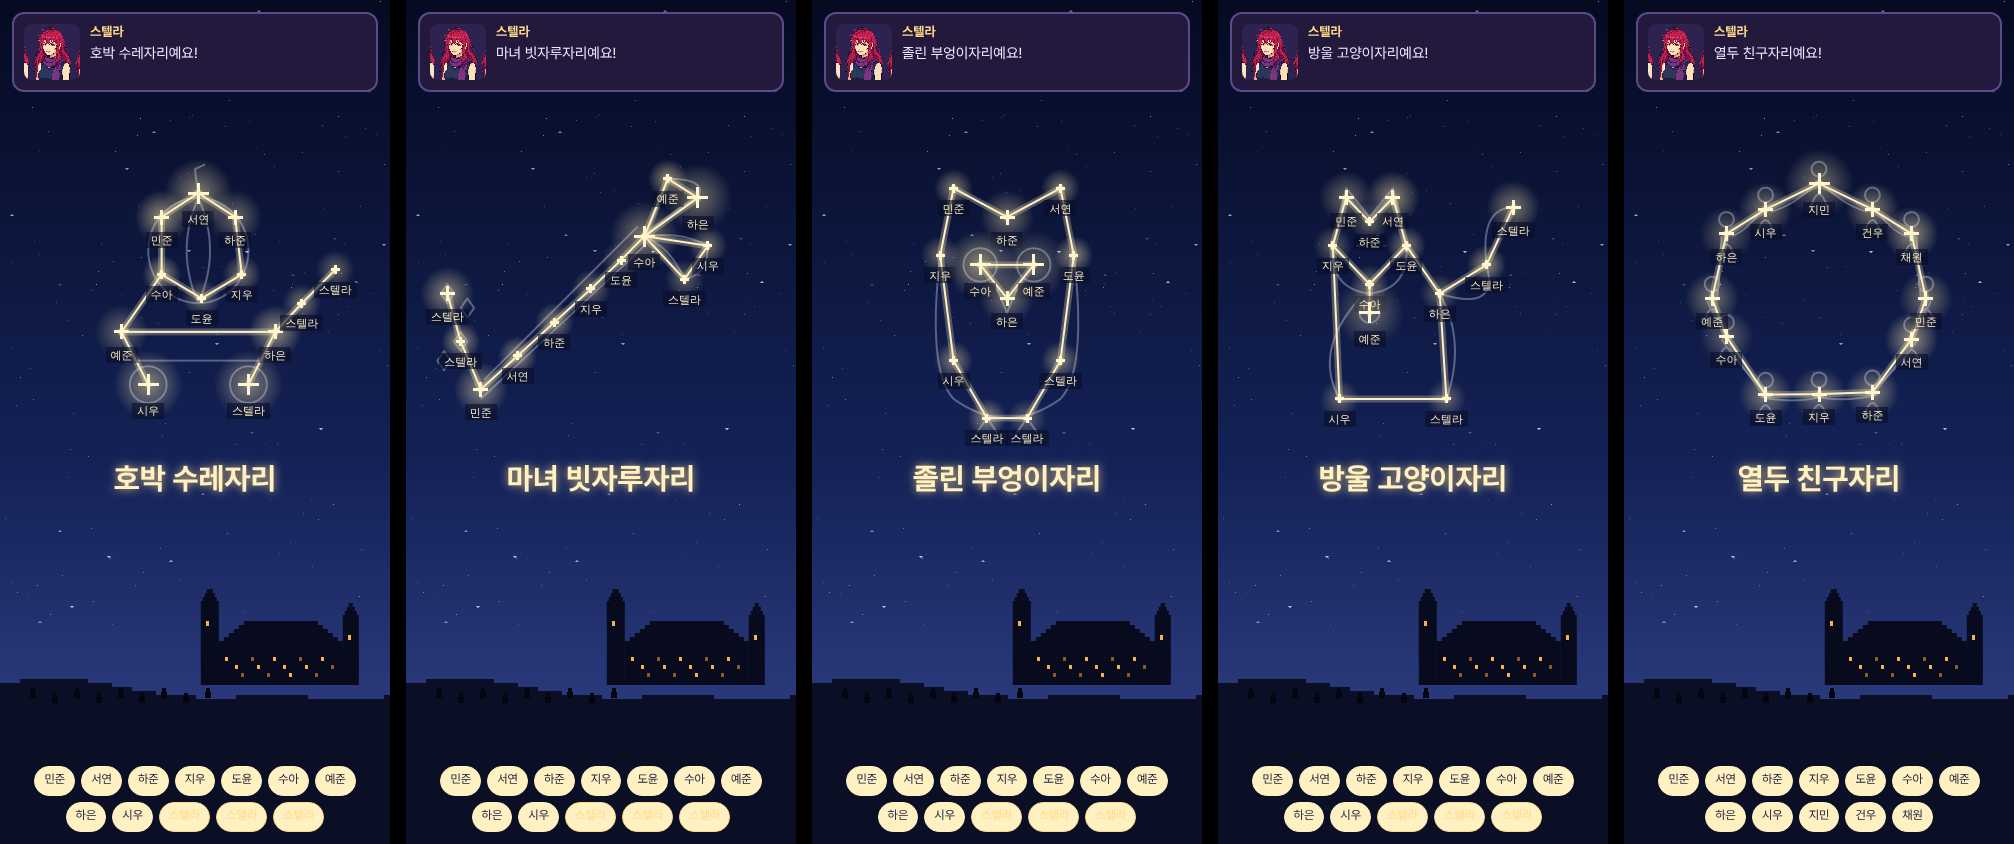
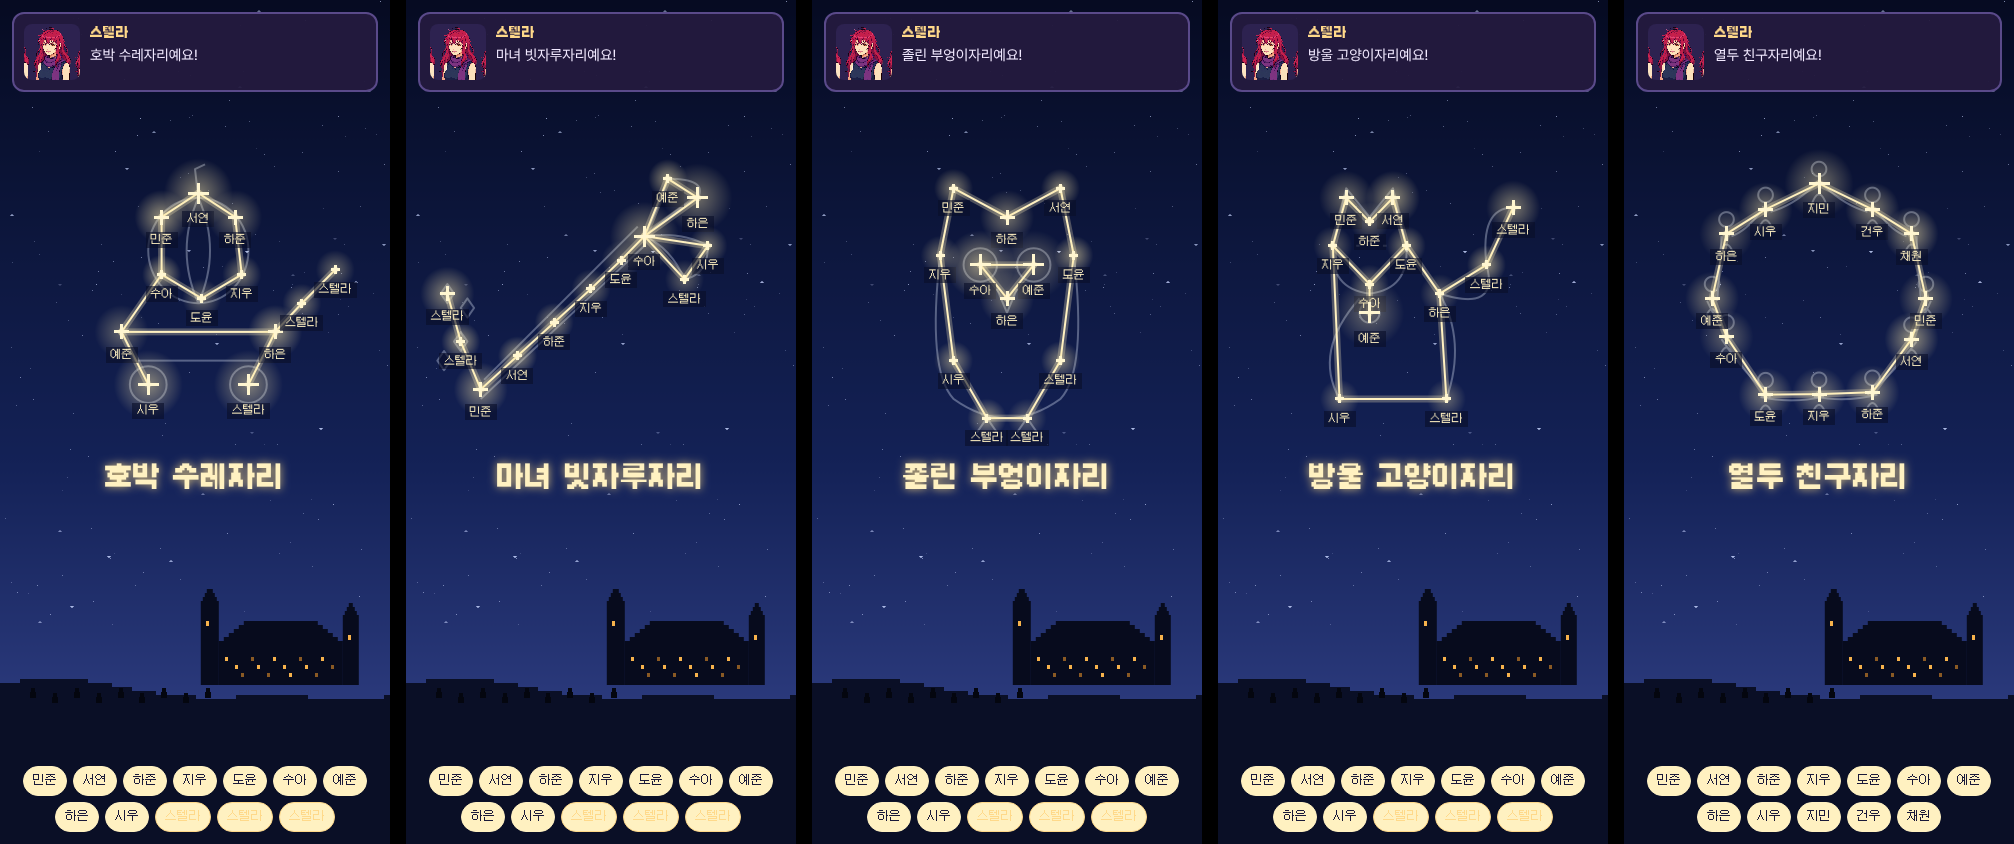
입문 선배 이름 코니, 접속하면 먼저 말 걸기, 탐사 화면을 열면 완료 / 별 보는 밤 시안 글꼴을 게임 글꼴(갈무리)로
Claude-Session: https://claude.ai/code/session_01HhJ2NoNCjk5kaA3GWL7UDs

diff --git a/public/index.html b/public/index.html
@@ -1263,7 +1263,7 @@ function enterWorld(){
   document.body.classList.add('inworld'); app.innerHTML = ''; sheetOn = false; app.classList.remove('open');
   if (typeof applySettings === 'function') applySettings();
   if (typeof bagBadge === 'function') setTimeout(bagBadge, 500);
-  World.setPlayer(me.nick, avOf(me)); const last = posLoad(); World.start(last ? last.m : undefined, last ? [last.x, last.y] : undefined); World.resize(); posWatch();
+  World.setPlayer(me.nick, avOf(me)); const last = posLoad(); World.start(last ? last.m : undefined, last ? [last.x, last.y] : undefined); World.resize(); tutGreet(); posWatch();
   syncPens(); syncRoom(); syncHalls(); syncHallNames(); syncSpots(); syncNpcs(); NL.ready.then(() => { npcDecay(); npcSig = ''; syncNpcs(); MQ.ready.then(() => { mqSky(); npcSig = ''; syncNpcs(); mqMarks(); setTimeout(mqTick, 1200); }); }); dayTick(); hud(); showRest(); setTimeout(storyCheck, 1500);
 }
 let spotTimer = 0;
@@ -1843,7 +1843,6 @@ function xEnd(how){   // how: clear · time · retreat · wipe
   const before = xLv(ex.exp).L; ex.exp += exp; me.coin += gold; Object.entries(items).forEach(([k, n]) => { me.inv[k] = (me.inv[k] || 0) + n; });
   const after = xLv(ex.exp).L, sp = how === 'clear' || (how !== 'wipe' && Math.random() < .1) ? 1 : 0; ex.spx = (ex.spx || 0) + sp; ex.run = null; xb = null; clearInterval(xTick); save(); hud();
   xv = { view: 'result', how, gold, exp, items, up: after > before ? [before, after] : null, sp, prog: Math.floor(run.prog) };
-  tutHook('explore');
   if (how !== 'wipe'){ pzDrop('explore'); lnDrop('explore'); }
   if (how !== 'wipe' && Math.random() < .02) setTimeout(() => recipePaper('explore'), 700);   // 탐사 보상: 레시피 종이 2%
 }
@@ -1900,6 +1899,7 @@ function xpWire(){
     else if (a === 'start' && xpV && xpV.host === myId()) GDB.upd('xparty/' + xpRoom, { st: 'run', t0: now2() + 3000, seed: Math.floor(Math.random() * 1e9) }); });
 }
 function renderExplore(){
+  tutHook('explore');
   const ex = xEx(), lv = xLv(ex.exp), job = ex.job && XJ[ex.job];
   if (ex.run && xTime(ex.run) <= 0 && !xb) xEnd('time');
   if (!xv) xv = { view: ex.run ? 'march' : 'lobby' };
@@ -6947,8 +6947,8 @@ document.addEventListener('click', e => { const bt = e.target.closest && e.targe
 // ===== 입문 퀘스트: 학교 선배가 수업 · 온실 · 낚시 · 사육장 · 탐사를 한 번씩 해 보게 이끌어요 (새로 만든 계정만, 순서 고정, 건너뛰기 없음) =====
 //   me.tut = { s: 지금 단계(0~4), g: 과제를 받았는지, ok: 과제를 끝냈는지, end: 모두 끝남 } · 옛 계정은 me.tut이 없어서 선배가 나오지 않아요
 const TUT = {
-  name: '하랑 선배', title: '학교 선배', look: 21, map: 'campus', x: 47, y: 47,
-  intro: ['어, 새로 왔구나. 나는 하랑이야. 이 학교 3학년이고, 신입생 길 안내를 맡고 있어.', '여기서 할 수 있는 건 많은데.... 한꺼번에 말하면 헷갈리니까 하나씩 해 보자.', '다 하고 나면 용돈도 줄게. 걱정 말고 따라와.'],
+  name: '코니 선배', title: '학교 선배', look: 21, map: 'campus', x: 47, y: 47,
+  intro: ['어, 새로 왔구나. 나는 코니야. 이 학교 3학년이고, 신입생 길 안내를 맡고 있어.', '여기서 할 수 있는 건 많은데.... 한꺼번에 말하면 헷갈리니까 하나씩 해 보자.', '다 하고 나면 용돈도 줄게. 걱정 말고 따라와.'],
   steps: [
     { k: 'class', ask: ['먼저 수업부터 들어 보자.', '본관 옆 「교실」에 들어가서 「앉아서 수업 듣기」를 눌러 봐. 과목은 아무거나 괜찮아.', '한 판만 끝까지 해 보면 돼.'],
       again: '교실에서 수업을 한 판 끝까지 해 봐. 과목은 아무거나 괜찮아.', done: ['오, 해냈네! 수업은 하루에 열 번까지 들을 수 있어.', '들을수록 지식이 쌓이고, 새 레시피도 알게 돼. 이건 용돈이야.'], rew: { coin: 50 } },
@@ -6958,8 +6958,8 @@ const TUT = {
       again: '물가에서 낚시를 해 봐. 학교 북쪽 연못이 가까워. 한 마리만 낚으면 돼.', done: ['한 마리 낚았네! 잡은 물고기는 도감에 기록돼.', '생선 가게에 팔 수도 있고, 요리 재료로도 쓰여. 이것도 받아.'], rew: { coin: 50 } },
     { k: 'feed', ask: ['사육장에도 가 보자. 네 생물들이 기다리고 있어.', '「사육장」에 들어가서 「내 사육장」을 열고, 생물에게 먹이를 줘 봐.', '애정이 쌓이면 귀한 재료를 나눠 줘.'],
       again: '사육장에서 내 생물에게 먹이를 줘 봐. 한 마리면 충분해.', done: ['귀여워하는 거 봤지? 애정이 쌓이면 재료도 나눠 줘.', '마지막은 탐사야. 입장료가 50G 드니까 미리 줄게.'], rew: { coin: 50 } },
-    { k: 'explore', ask: ['마지막은 탐사야. 학교에서 제일 짜릿한 일이지.', '마을 가장자리 길 끝에 기둥 문이 있어. 거기서 「달빛 숲길」로 들어가 봐.', '몬스터와 싸우니까 조금 무섭지? 도중에 돌아와도 괜찮아. 한 번 다녀오기만 하면 돼.'],
-      again: '마을 가장자리 길 끝 기둥 문에서 탐사를 한 번 다녀와 봐. 도중에 돌아와도 괜찮아.', done: ['탐사까지 다녀왔네.... 이제 이 학교에서 할 건 거의 다 해 본 거야.', '이건 내 마지막 선물이야. 앞으로는 스스로 해 나가면 돼.', '그럼 잘 지내.......'], rew: { coin: 300 } },
+    { k: 'explore', ask: ['마지막은 탐사야. 학교에서 제일 짜릿한 일이지.', '마을 가장자리 길 끝에 기둥 문이 있어. 거기로 들어가서 탐사 화면을 열어 봐.', '싸우지 않아도 괜찮아. 들어가 보기만 하면 돼.'],
+      again: '마을 가장자리 길 끝 기둥 문으로 들어가 봐. 탐사 화면만 열어 봐도 돼.', done: ['탐사 문까지 와 봤네.... 이제 이 학교에서 할 건 거의 다 해 본 거야.', '이건 내 마지막 선물이야. 앞으로는 스스로 해 나가면 돼.', '그럼 잘 지내.......'], rew: { coin: 300 } },
   ],
 };
 const tutOn = () => !!(me && me.tut && !me.tut.end);
@@ -6969,9 +6969,11 @@ function tutNpcs(){
   const T = me.tut, mark = !T.g || T.ok ? '❗' : '';
   return [{ id: 'tut:senior', name: TUT.name, map: TUT.map, x: TUT.x, y: TUT.y, r: 1, mark, wander: true, dir: 'down', av: tutAv() }];
 }
+var tutAuto = false;
+function tutGreet(){ if (tutAuto || !tutOn() || !me || !(!me.tut.g || me.tut.ok)) return; tutAuto = true; setTimeout(() => { if (tutOn() && !sheetOn && !evOn) tutTalk(); }, 1800); }
 function tutHook(k){
   if (!tutOn()) return; const T = me.tut; if (!T.g || T.ok || TUT.steps[T.s].k !== k) return;
-  T.ok = 1; save(); syncNpcs(); setTimeout(() => toast('입문 과제 완료! 하랑 선배에게 가 보세요'), 600);
+  T.ok = 1; save(); syncNpcs(); setTimeout(() => toast('입문 과제 완료! 코니 선배에게 가 보세요'), 600);
 }
 let tutCtx = null;
 function tutPanel(lines, i){

diff --git a/tools/stargaze/preview.html b/tools/stargaze/preview.html
@@ -2,16 +2,18 @@
 <style>
 @font-face{font-family:'Pretendard';font-weight:400;src:url(../../public/fonts/Pretendard-Regular.woff2) format('woff2')}
 @font-face{font-family:'Pretendard';font-weight:700;src:url(../../public/fonts/Pretendard-Bold.woff2) format('woff2')}
+@font-face{font-family:'G11';src:url(../../public/fonts/Galmuri11.sub.woff2) format('woff2')}
+@font-face{font-family:'G11B';src:url(../../public/fonts/Galmuri11-Bold.sub.woff2) format('woff2')}
 html,body{margin:0;background:#000;overflow:hidden;font-family:Pretendard,sans-serif}
 #stage{position:relative;overflow:hidden}
 canvas{position:absolute;inset:0;width:100%;height:100%}
 #say{position:absolute;left:12px;right:12px;top:12px;display:flex;gap:10px;padding:10px;background:rgba(36,27,63,.94);border:2px solid #5A4A8A;border-radius:12px;color:#F1E9FF;box-sizing:border-box}
 #say img{width:56px;height:56px;border-radius:8px;background:#2D2250;object-fit:cover;flex:none;image-rendering:pixelated}
-#say b{display:block;font-size:13px;color:#FFD98A;margin-bottom:3px}
+#say b{font-family:G11B,Pretendard,sans-serif;display:block;font-size:13px;color:#FFD98A;margin-bottom:3px}
 #say p{margin:0;font-size:14.5px;line-height:1.45}
-#cnt{position:absolute;left:0;right:0;top:94px;text-align:center;font-size:13px;color:#BFD0FF}
+#cnt{font-family:G11,Pretendard,sans-serif;position:absolute;left:0;right:0;top:94px;text-align:center;font-size:13px;color:#BFD0FF}
 #names{position:absolute;left:12px;right:12px;bottom:12px;display:flex;flex-wrap:wrap;gap:6px;justify-content:center}
-#names span{font-size:12px;padding:5px 9px;border-radius:999px;background:rgba(10,14,40,.7);color:#9FB0E0;border:1px solid #3A4686;min-height:18px}
+#names span{font-family:G11,Pretendard,sans-serif;font-size:12px;padding:5px 9px;border-radius:999px;background:rgba(10,14,40,.7);color:#9FB0E0;border:1px solid #3A4686;min-height:18px}
 #names span.on{color:#1A1A3A;background:#FFF1C1;border-color:#FFF1C1}
 #names span.st{color:#FFD98A;border-color:#FFD98A}
 </style>
@@ -23,6 +25,7 @@ const NM = ['민준', '서연', '하준', '지우', '도윤', '수아', '예준'
 const st = document.getElementById('stage'); st.style.width = W + 'px'; st.style.height = H + 'px';
 const cv = document.getElementById('cv'); cv.width = W * DPR; cv.height = H * DPR; const g = cv.getContext('2d'); g.setTransform(DPR, 0, 0, DPR, 0, 0);
 (async () => {
+  await Promise.all([document.fonts.load('12px G11'), document.fonts.load('12px G11B'), document.fonts.load('12px Pretendard')]);
   const D = Q.data || await (await fetch('../../public/data/events/stargazing/constellations.json')).json(), C = D.constellations.find(c => c.id === Q.c);
   const nP = Q.people ?? 9, own = {}; C.stars.forEach((s, i) => { own[s.id] = i < nP ? NM[(i + (Q.shift || 0)) % 12] : '스텔라'; });
   const lit = C.stars.slice(0, Q.lit ?? 12).map(s => s.id);

diff --git a/tools/stargaze/sky.js b/tools/stargaze/sky.js
@@ -48,10 +48,10 @@ const SKY = (() => {
       else { g.globalAlpha = .55 + .35 * Math.sin(t * 3 + x); }
       px(g, x - U / 2, y - U / 2, U, U, col); for (let k = 1; k <= arm; k++){ px(g, x - U / 2 + k * U, y - U / 2, U, U, col); px(g, x - U / 2 - k * U, y - U / 2, U, U, col); px(g, x - U / 2, y - U / 2 + k * U, U, U, col); px(g, x - U / 2, y - U / 2 - k * U, U, U, col); }
       g.globalAlpha = 1;
-      if (S.names && S.own && S.own[s.id]){ g.font = (W < 700 ? '11' : '14') + 'px Pretendard, G11, sans-serif'; g.textAlign = 'center'; const tx = S.own[s.id], w = g.measureText(tx).width + 10, ty = y + (arm + 1) * U + 6, hot = S.hot && S.hot.includes(s.id);
+      if (S.names && S.own && S.own[s.id]){ g.font = (W < 700 ? '11' : '14') + 'px G11, Pretendard, sans-serif'; g.textAlign = 'center'; const tx = S.own[s.id], w = g.measureText(tx).width + 10, ty = y + (arm + 1) * U + 6, hot = S.hot && S.hot.includes(s.id);
         g.fillStyle = hot ? 'rgba(255,241,193,.9)' : 'rgba(10,14,40,.62)'; g.fillRect(Math.round(x - w / 2), Math.round(ty), Math.round(w), W < 700 ? 16 : 20); g.fillStyle = hot ? '#1A1A3A' : L ? '#FFF1C1' : '#9FB0E0'; g.fillText(tx, x, ty + (W < 700 ? 12 : 15)); } });
     if (head){ for (let i = 0; i < 6; i++){ const a = i * 1.1 + t * 6; g.fillStyle = 'rgba(255,241,193,.8)'; g.fillRect(Math.round(head[0] + Math.cos(a) * 7), Math.round(head[1] + Math.sin(a) * 7), 2, 2); } }
-    if (S.title > 0){ g.save(); g.globalAlpha = S.title; g.textAlign = 'center'; g.font = `bold ${W < 700 ? 30 : 46}px Pretendard, G11B, sans-serif`; g.shadowColor = 'rgba(255,220,130,.85)'; g.shadowBlur = 18; g.fillStyle = '#FFF1C1'; g.fillText(C.name, W / 2, B.y + B.h + (W < 700 ? 52 : 70)); g.restore(); }
+    if (S.title > 0){ g.save(); g.globalAlpha = S.title; g.textAlign = 'center'; g.font = `${W < 700 ? 28 : 42}px G11B, Pretendard, sans-serif`; g.shadowColor = 'rgba(255,220,130,.85)'; g.shadowBlur = 18; g.fillStyle = '#FFF1C1'; g.fillText(C.name, W / 2, B.y + B.h + (W < 700 ? 52 : 70)); g.restore(); }
   }
   return { draw, box, pos };
 })();
